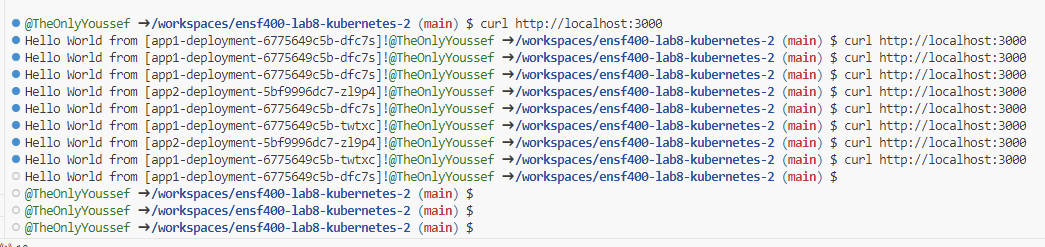
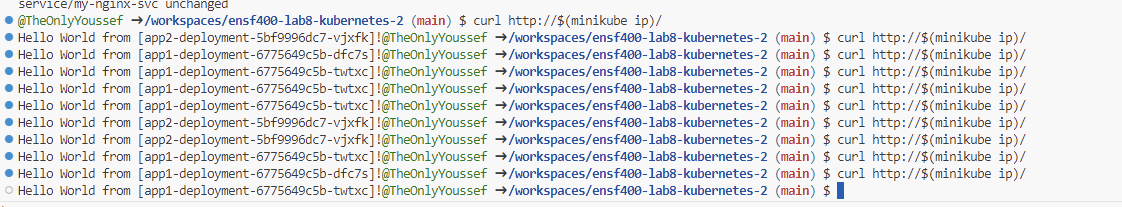
done2

diff --git a/assignment3/README.md b/assignment3/README.md
@@ -31,14 +31,18 @@ where assignment3 is the root folder, this command will apply all the yaml files
 
 ### Step 3: Accessing the Application
 
-You would have to forward port 3000 to 80 so run command:
+Enable ingress addon by:
 ```sh
- kubectl port-forward svc/my-nginx-svc 3000:80
- ```
-then in another terminal run 
-```sh
-curl http://localhost:3000
+minikube addons enable ingress
 ```
+
+Curl the website:
+```sh
+curl http://$(minikube ip)/
+```
+
+
+
 output:
 
 ![alt text](output.png)
